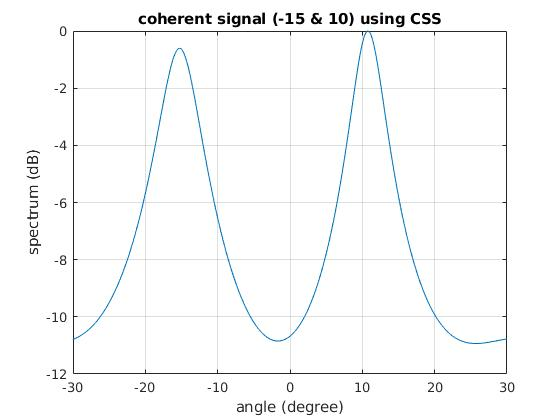
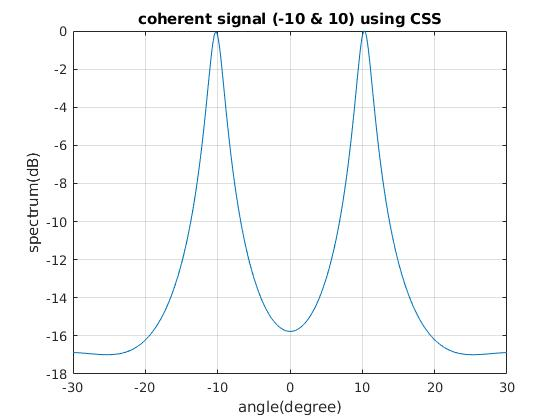
fix frequencies align

diff --git a/CSM_TCT.m b/CSM_TCT.m
@@ -1,13 +1,13 @@
 function [theta, spectrum] = CSM_TCT()
     SNR = 15;
     sensorNum = 8;
-    theta_S = [-15; 10];
+    theta_S = [-10; 0];
     sourceNum = length(theta_S);
-    %----Signal bandwidth: 2MHz, center freq: 11MHz fs: 10e6-----%
-    fs = 10e6;
-    f_begin = 10e6;
+    %----Signal bandwidth: 4MHz, center freq: 10MHz fs: 8e6-----%
+    f_begin = 8e6;
     f_end = 12e6;
     bandwidth = f_end - f_begin;
+    fs = 2*bandwidth;
     narrowBandwidth = 1e2;
     narrowBandNum = bandwidth/narrowBandwidth;
     
@@ -44,18 +44,24 @@ function [theta, spectrum] = CSM_TCT()
         end
     end
     
-    preEstTheta = theta_S + rand();
+    preEstTheta = theta_S + 0.25*randn();
     estManifold = zeros(sensorNum, sourceNum);
     focusFreqSignalCorreMat = 0;
+    singularValsSum = 0;
     %------form signal correlation matrices and manifold in each frequency bin------%
     for freqPos = 1: nFFT
-        f = (freqPos - 1)*(bandwidth/nFFT) + f_begin;
+        if freqPos <= nFFT/2
+            f = fs + (freqPos - 1)*fs/nFFT;
+        else
+            f = (f_end + bandwidth) - (freqPos - 1)*fs/nFFT;
+        end
         data = dataSet(:, :, freqPos);
         covMat = (data*data')/size(data, 2);
         [~, eigenVals] = eig(covMat);
         eigenVals = diag(eigenVals);
         noisePower = min(eigenVals);
         cleanedData = covMat - noisePower*eye(sensorNum);
+        singularValsSum = singularValsSum + svd(cleanedData);
         for col = 1: sourceNum
             estManifold(:, col) = exp(-1j*2*pi*f*((distance*sind(preEstTheta(col)))/c));
         end
@@ -64,8 +70,21 @@ function [theta, spectrum] = CSM_TCT()
     end
     focusFreqSignalCorreMat = focusFreqSignalCorreMat/nFFT;
     %------form focus matrices------%
-    focusFreq = (f_begin + f_end)/2;
+%     focusFreq = (f_begin + f_end)/2;
     focusManifold = zeros(sensorNum, sourceNum);
+    cost = inf;
+    for freqPos = 1: nFFT/2
+        f = fs + (freqPos - 1)*fs/nFFT;
+        for col = 1: sourceNum
+            focusManifold(:, col) = exp(-1j*2*pi*f*((distance*sind(preEstTheta(col)))/c));
+        end
+        focusData = focusManifold*focusFreqSignalCorreMat*focusManifold';
+        thisCost = sum(abs(svd(focusData) - singularValsSum/nFFT).^2);
+        if thisCost < cost
+            focusFreq = f;
+            cost = thisCost;
+        end
+    end
     for col = 1: sourceNum
         focusManifold(:, col) = exp(-1j*2*pi*focusFreq*((distance*sind(preEstTheta(col)))/c));
     end
@@ -93,5 +112,5 @@ function [theta, spectrum] = CSM_TCT()
     covMat_TCT = covMat_TCT/nFFT;
     
     %-------MUSIC---------%
-    [theta, spectrum] = MUSIC(covMat_TCT, f_end, sourceNum, sensorNum, margin);
+    [theta, spectrum] = MUSIC(covMat_TCT, focusFreq, sourceNum, sensorNum, margin);
 end

diff --git a/CSM_CSS.m b/CSM_CSS.m
@@ -1,17 +1,17 @@
 function [theta, spectrum] = CSM_CSS()
-    SNR = 15;
+    SNR = 25;
     sensorNum = 8;
-    theta_S = [-15; 10];
+    theta_S = [-10; 20];
     sourceNum = length(theta_S);
-    %----Signal bandwidth: 2MHz, center freq: 11MHz fs: 10e6-----%
-    fs = 10e6;
-    f_begin = 10e6;
+    %----Signal bandwidth: 4MHz, center freq: 10MHz fs: 8e6-----%
+    f_begin = 8e6;
     f_end = 12e6;
     bandwidth = f_end - f_begin;
+    fs = 2*bandwidth;
     narrowBandwidth = 1e2;
     narrowBandNum = bandwidth/narrowBandwidth;
     
-    freqSnapshots = 100;
+    freqSnapshots = 200;
     nFFT = 64;
     
     
@@ -24,7 +24,7 @@ function [theta, spectrum] = CSM_CSS()
     
     receivedData = zeros(sensorNum, snapshots);
     manifoldMat = zeros(sensorNum, sourceNum);
-    signalCovMat = [1, 0.99; 0.99, 1];
+    signalCovMat = [1, 0.5; 0.5, 1];
     for bandNum = 1: narrowBandNum
         f = f_begin + (bandNum - 1)*narrowBandwidth;
         signalAmp = mvnrnd(zeros(sourceNum, 1), signalCovMat, snapshots).';
@@ -44,15 +44,20 @@ function [theta, spectrum] = CSM_CSS()
         end
     end
     
-    preEstTheta = theta_S + rand();
+    preEstTheta = theta_S + 0.25*randn();
     %---------form tansform matrix-------%
+    focusFreq = (f_begin + f_end)/2;
     transMat = zeros(sensorNum, sensorNum, nFFT);
     preManifoldMat = zeros(sensorNum, sourceNum);
     for col = 1: sourceNum
-        manifoldMat(:, col) = exp(-1j*2*pi*f_end*((distance*sind(preEstTheta(col)))/c));
+        manifoldMat(:, col) = exp(-1j*2*pi*focusFreq*((distance*sind(preEstTheta(col)))/c));
     end
     for freqPos = 1: nFFT
-        f = (freqPos - 1)*(bandwidth/nFFT) + f_begin;
+        if freqPos <= nFFT/2
+            f = fs + (freqPos - 1)*fs/nFFT;
+        else
+            f = (f_end + bandwidth) - (freqPos - 1)*fs/nFFT;
+        end
         for col = 1: sourceNum
             preManifoldMat(:, col) = exp(-1j*2*pi*f*((distance*sind(preEstTheta(col)))/c));
         end
@@ -70,5 +75,5 @@ function [theta, spectrum] = CSM_CSS()
     transCovMat = transCovMat/nFFT;
     
     %-------MUSIC---------%
-    [theta, spectrum] = MUSIC(transCovMat, f_end, sourceNum, sensorNum, margin);
+    [theta, spectrum] = MUSIC(transCovMat, focusFreq, sourceNum, sensorNum, margin);
 end

diff --git a/TOPS.m b/TOPS.m
@@ -3,11 +3,11 @@ function [theta, spectrum] = TOPS()
     sensorNum = 8;
     theta_S = [-20; 13];
     sourceNum = length(theta_S);
-%----Signal bandwidth: 2MHz, center freq: 11MHz fs: 10e6-----%
-    fs = 10e6;
-    f_begin = 10e6;
+%----Signal bandwidth: 4MHz, center freq: 10MHz fs: 8e6-----%
+    f_begin = 8e6;
     f_end = 12e6;
     bandwidth = f_end - f_begin;
+    fs = 2*bandwidth;
     narrowBandwidth = 1e2;
     narrowBandNum = bandwidth/narrowBandwidth;
     
@@ -60,7 +60,11 @@ function [theta, spectrum] = TOPS()
             [~, index] = sort(eigenVals, 'ascend');
             noiseSubspace = eigenVec(:, index(1: sensorNum - sourceNum));
             
-            f = (freqPos - 1)*(bandwidth/nFFT) + f_begin;
+            if freqPos <= nFFT/2
+                f = fs + (freqPos - 1)*fs/nFFT;
+            else
+                f = (f_end + bandwidth) - (freqPos - 1)*fs/nFFT;
+            end
             deltaF = f - f_begin;
             steeringVec = exp(-1j*2*pi*deltaF*(margin*(0: sensorNum - 1)'*sind(theta(itr)))/c);
             unitaryMat = diag(steeringVec);

diff --git a/IMUSIC.m b/IMUSIC.m
@@ -1,13 +1,13 @@
 function [theta, spectrum] = IMUSIC()
     SNR = 15;
     sensorNum = 8;
-    theta_S = [-25; 15];
+    theta_S = [-20; 10];
     sourceNum = length(theta_S);
-%----Signal bandwidth: 2MHz, center freq: 11MHz fs: 10e6-----%
-    fs = 10e6;
-    f_begin = 10e6;
+%----Signal bandwidth: 4MHz, center freq: 10MHz fs: 10MHz-----%
+    f_begin = 8e6;
     f_end = 12e6;
     bandwidth = f_end - f_begin;
+    fs = 2*bandwidth;
     narrowBandwidth = 1e2;
     narrowBandNum = bandwidth/narrowBandwidth;
     
@@ -45,7 +45,11 @@ function [theta, spectrum] = IMUSIC()
     theta = (-30: 0.1: 30)';
     spectrum = zeros(size(theta, 1), nFFT);
     for freqPos = 1: nFFT
-        f = (freqPos - 1)*(bandwidth/nFFT) + f_begin;
+        if freqPos <= nFFT/2
+            f = fs + (freqPos - 1)*fs/nFFT;
+        else
+            f = (f_end + bandwidth) - (freqPos - 1)*fs/nFFT;
+        end
         [~, narrowBandSpec] = MUSIC(dataSet(:, :, freqPos), f, sourceNum, sensorNum, margin);
 %         spectrum = spectrum + narrowBandSpec;
         spectrum(:, freqPos) = narrowBandSpec;
